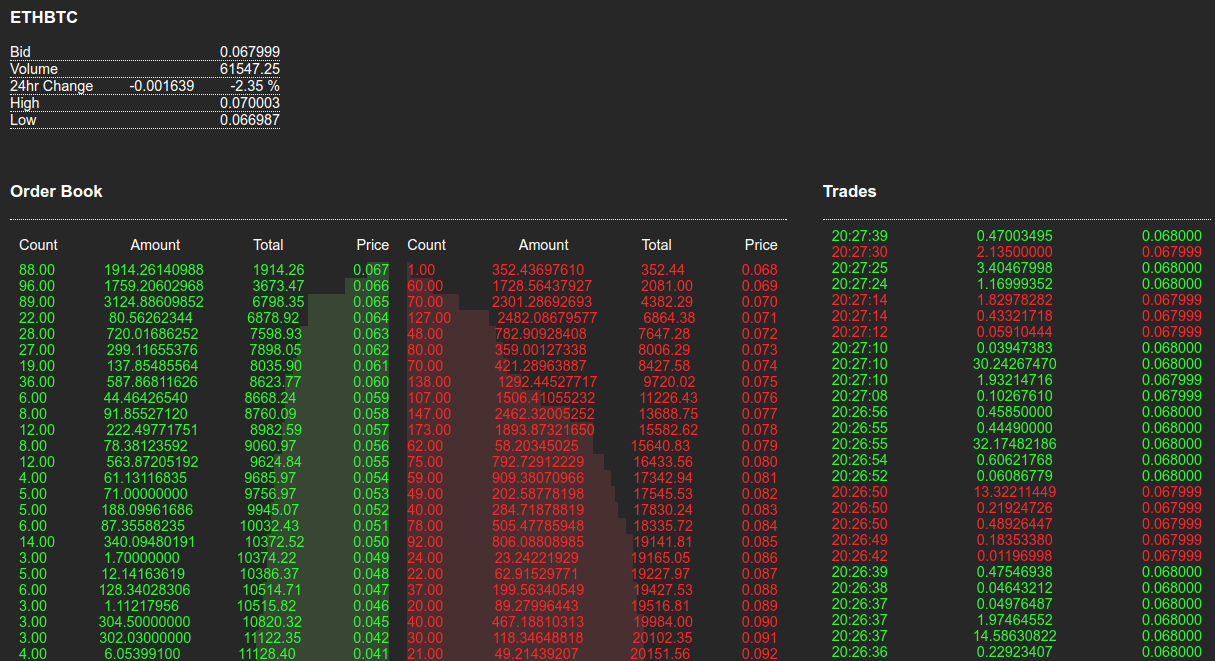
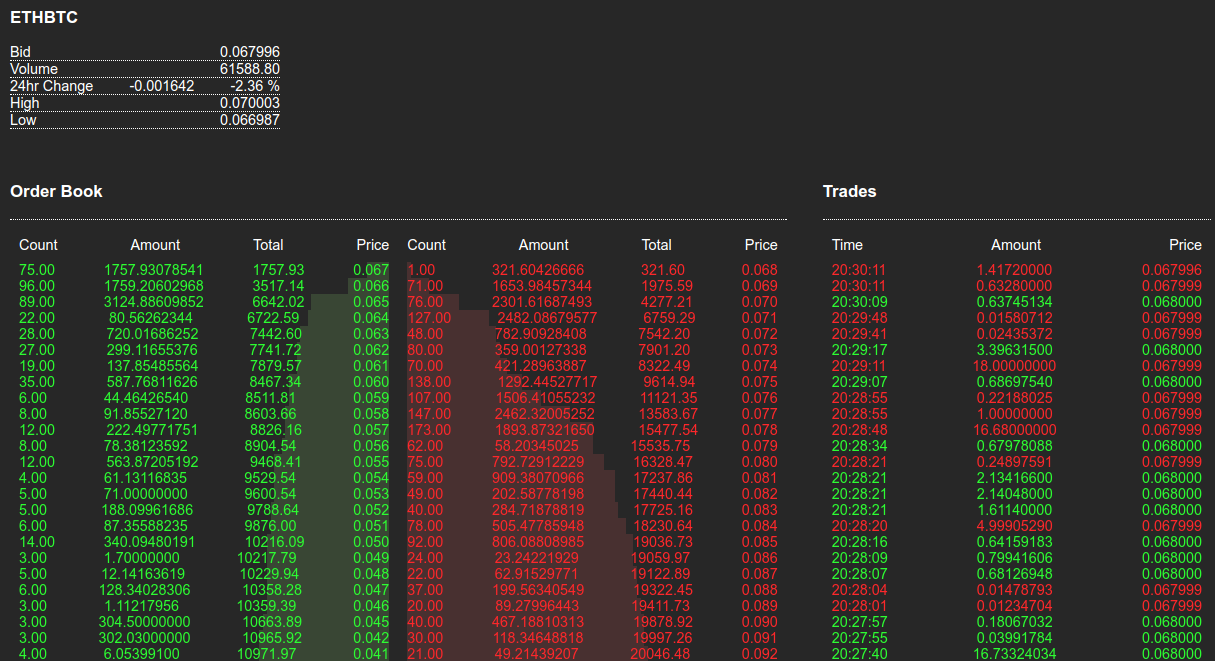
labels

diff --git a/src/components/Trades.js b/src/components/Trades.js
@@ -44,6 +44,11 @@ class Trades extends Component {
         <h3>Trades</h3>
         <div className="OrderBook">
           <div className="OrderBook-panel">
+            <div className="OrderBook-wide">
+              <span>{"Time"}</span>
+              <span>{"Amount"}</span>
+              <span>{"Price"}</span>
+            </div>
             {this.renderTrades()}
           </div>
         </div>
